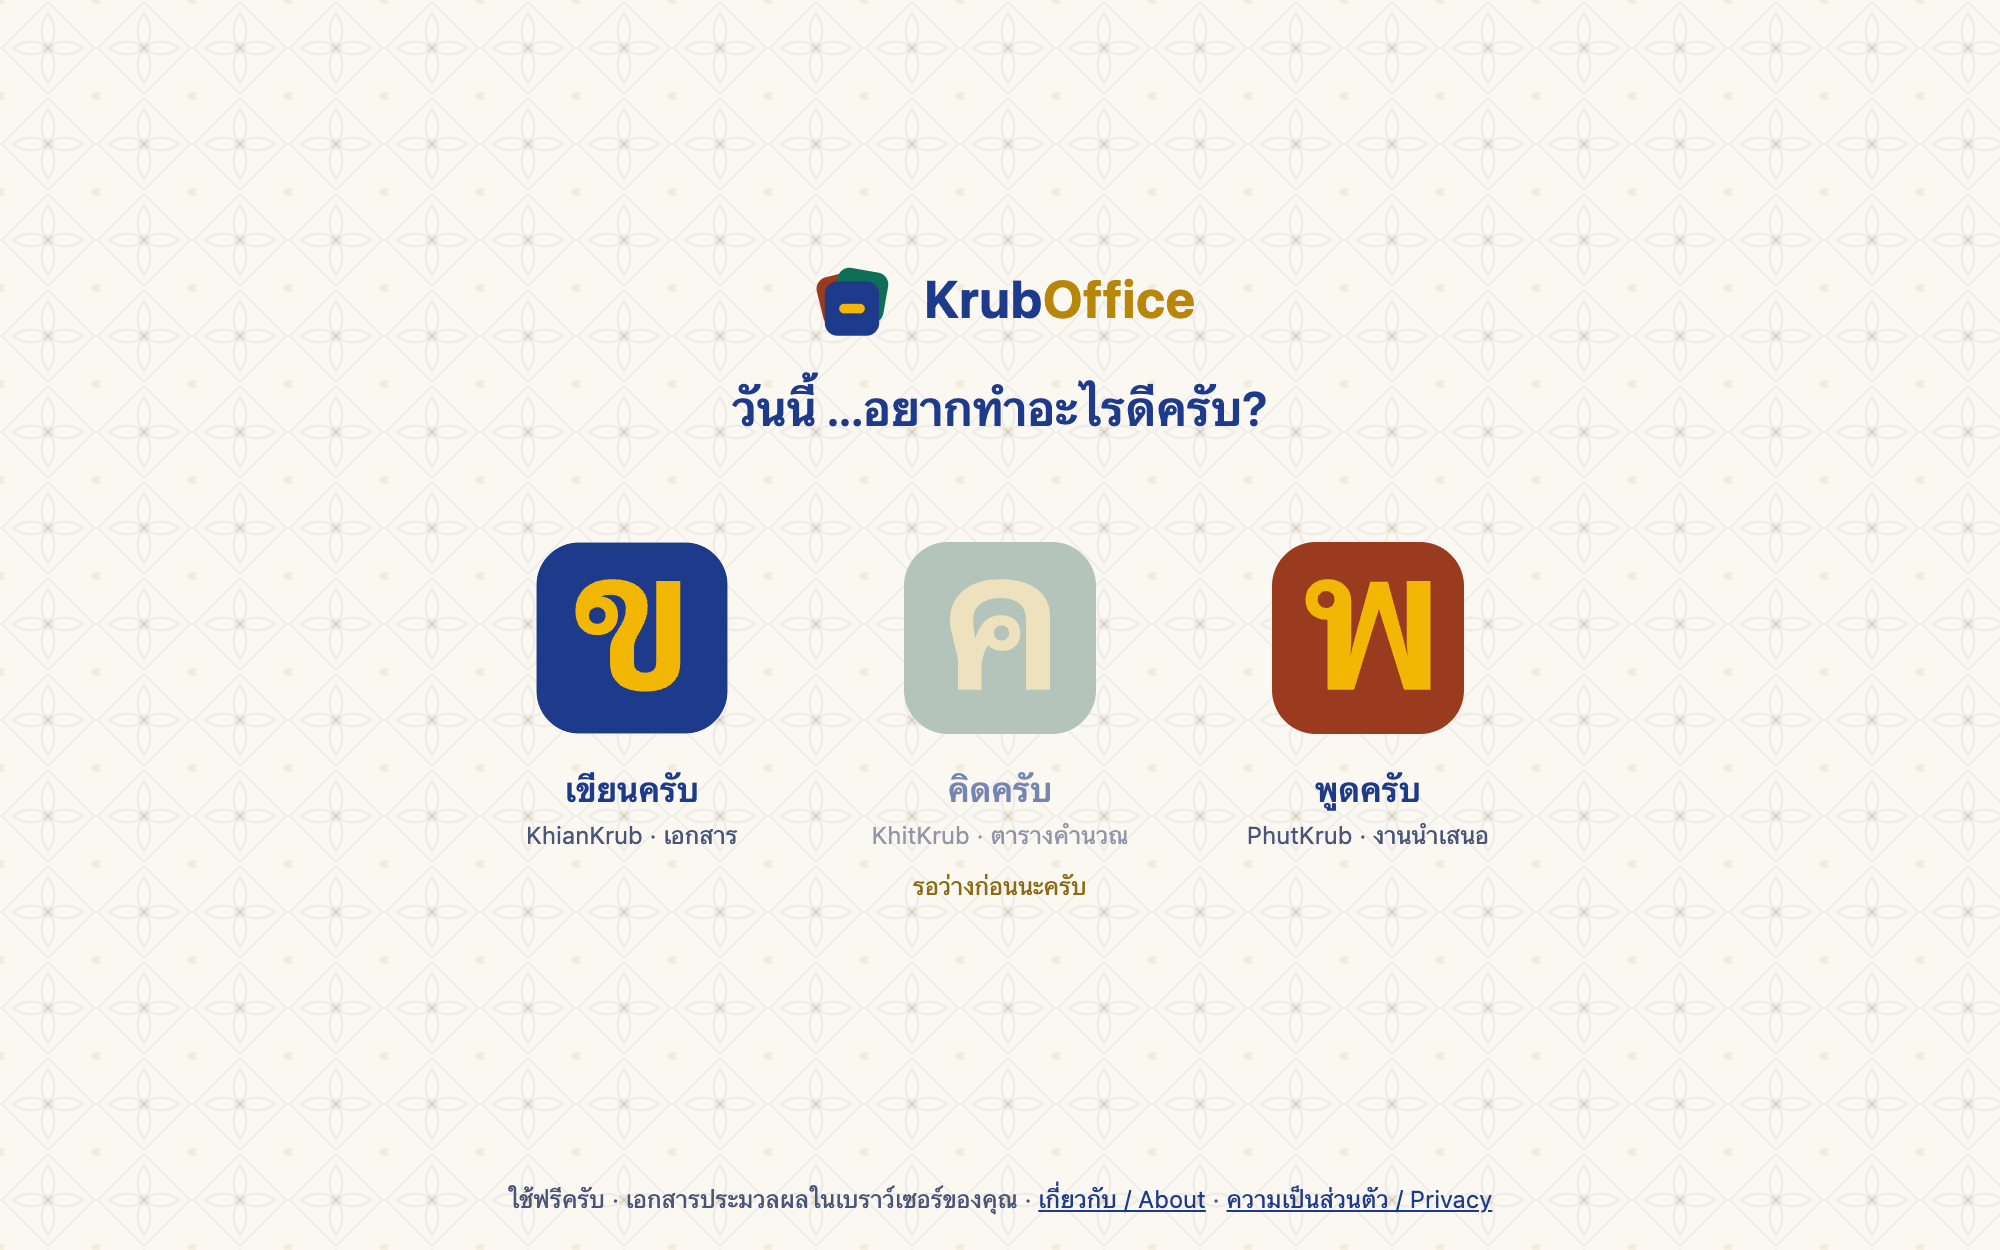
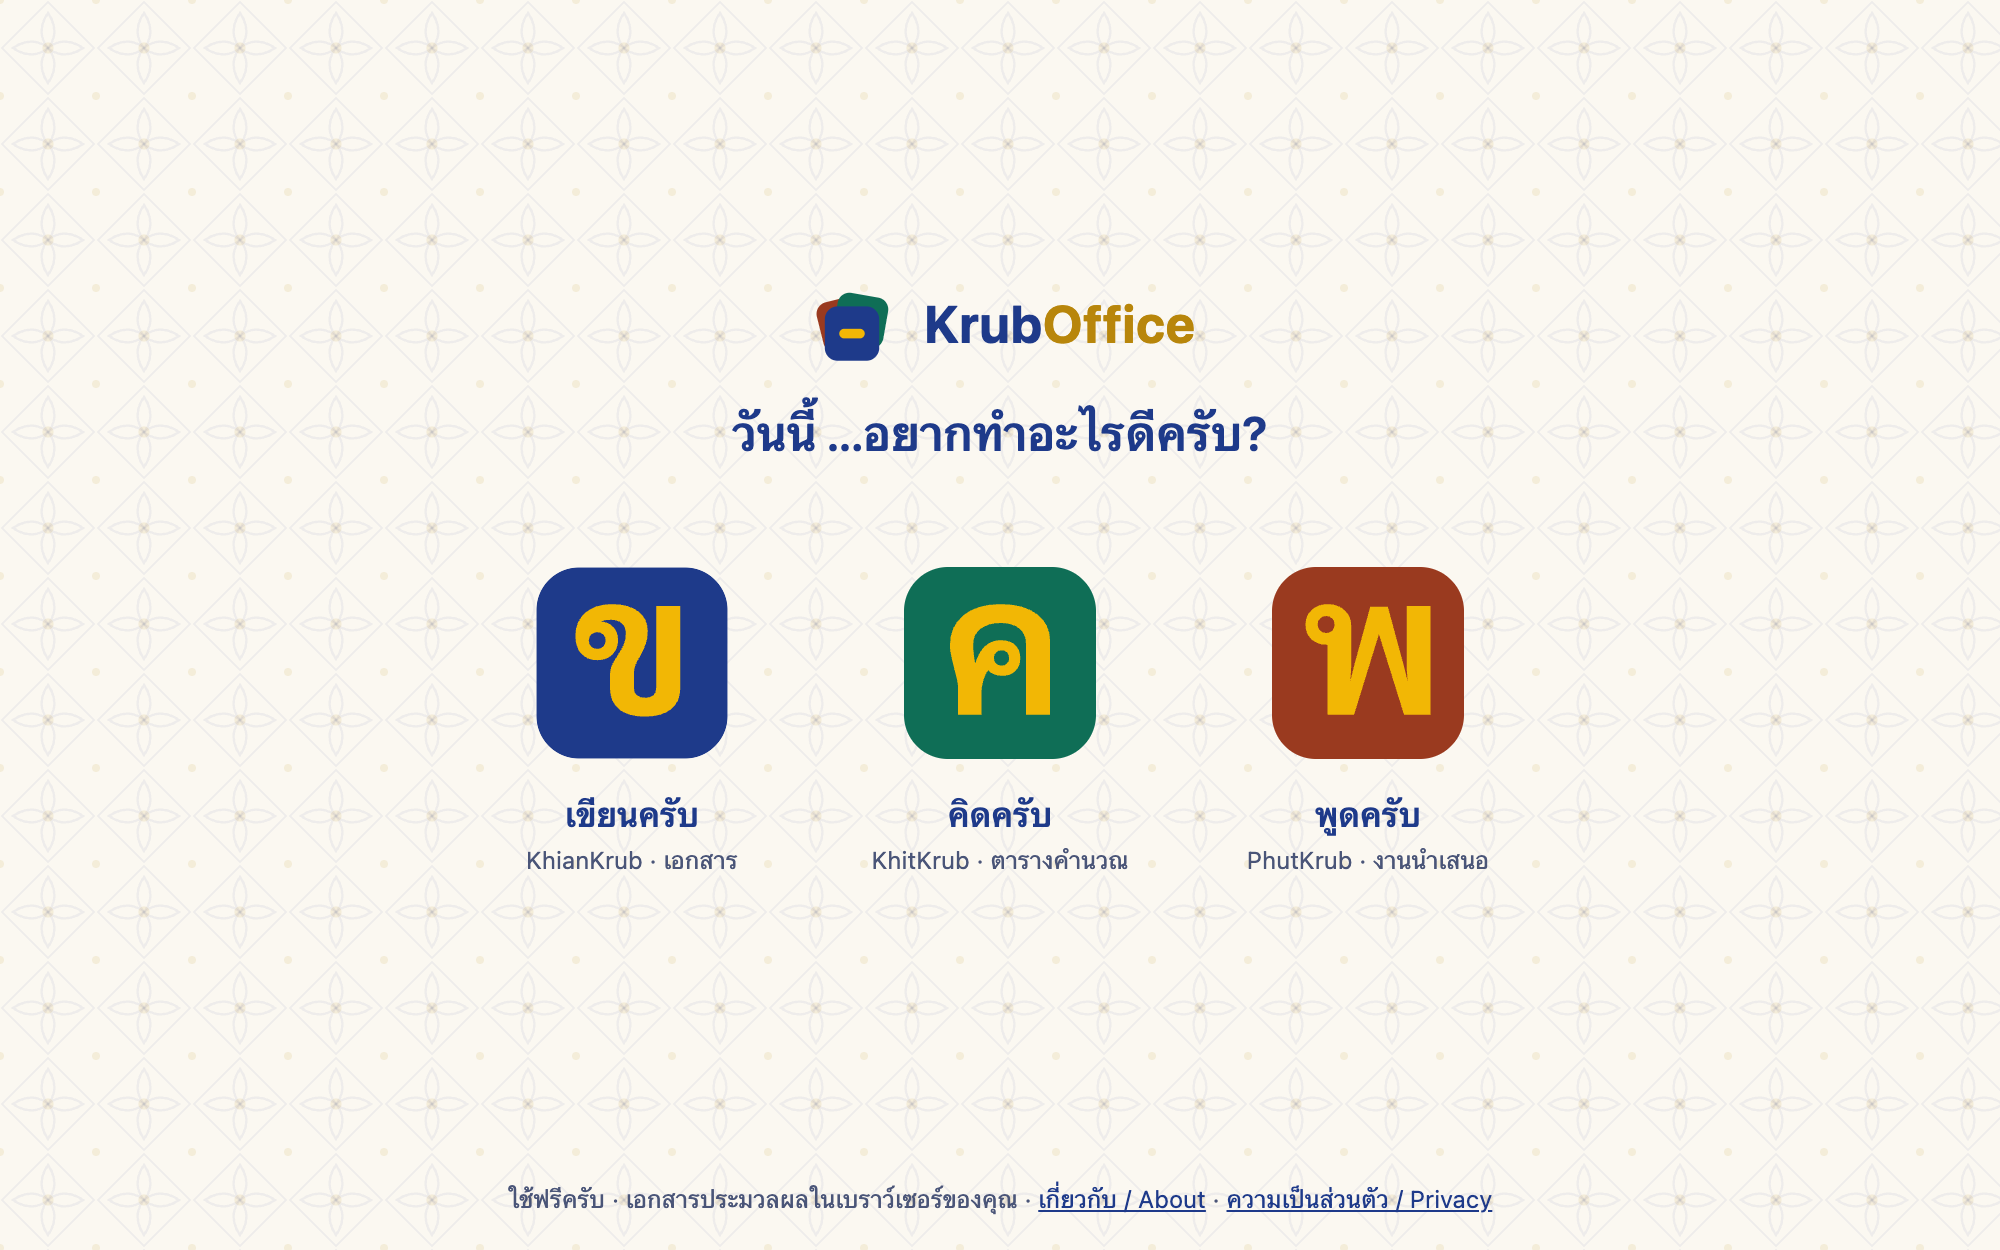
Publish KrubOffice launcher (8fb3d26c)

diff --git a/README.md b/README.md
@@ -8,10 +8,10 @@
 
 **Free Thai office apps in the browser. Nothing to install, no account to make.**
 
-**[เปิด / Open kruboffice.app](https://kruboffice.app/)** · [เขียนครับ · KhianKrub](https://khiankrub.app/) · [พูดครับ · PhutKrub](https://phutkrub.app/)
+**[เปิด / Open kruboffice.app](https://kruboffice.app/)** · [เขียนครับ · KhianKrub](https://khiankrub.app/) · [พูดครับ · PhutKrub](https://phutkrub.app/) · [คิดครับ · KhitKrub](https://khitkrub.app/)
 
 <p align="center">
-  <img src="images/kruboffice-launcher.png" alt="The KrubOffice page: the three-tile logo, the greeting วันนี้ ...อยากทำอะไรดีครับ?, and the app icons: เขียนครับ (a gold ข on navy), the faded คิดครับ marked รอว่างก่อนนะครับ, and พูดครับ (a gold พ on coral)" width="100%">
+  <img src="images/kruboffice-launcher.png" alt="The KrubOffice page: the three-tile logo, the greeting วันนี้ ...อยากทำอะไรดีครับ?, and the app icons: เขียนครับ (a gold ข on navy), คิดครับ (a gold ค on teal) and พูดครับ (a gold พ on coral)" width="100%">
 </p>
 
 ## โปรแกรมในชุด / The apps
@@ -20,7 +20,7 @@
 |---|---|---|---|
 | **เขียนครับ · KhianKrub** | พิมพ์เอกสาร เปิดและบันทึกไฟล์ Word (`.docx`) / Word processor, opens and saves `.docx` | [WordCraft](https://github.com/storytold/wordcraft) | ใช้ได้แล้ว / Available: **[khiankrub.app](https://khiankrub.app/)** |
 | **พูดครับ · PhutKrub** | ทำงานนำเสนอ เปิดและบันทึกไฟล์ PowerPoint (`.pptx`) / Presentations, opens and saves `.pptx` | [DeckCraft](https://github.com/storytold/deckcraft) | ใช้ได้แล้ว / Available: **[phutkrub.app](https://phutkrub.app/)** |
-| **คิดครับ · KhitKrub** | ตารางคำนวณ / Spreadsheets | [GridCraft](https://github.com/storytold/gridcraft) (planned) | รอว่างก่อนนะครับ / Coming later |
+| **คิดครับ · KhitKrub** | ตารางคำนวณ เปิดและบันทึกไฟล์ Excel (`.xlsx`) / Spreadsheets, opens and saves `.xlsx` | [GridCraft](https://github.com/storytold/gridcraft) | ใช้ได้แล้ว / Available: **[khitkrub.app](https://khitkrub.app/)** |
 
 ใช้ได้ฟรีบนคอมพิวเตอร์และ iPad ยังไม่รองรับโทรศัพท์มือถือ / Free on computers and iPads; phones aren't supported yet.
 
@@ -29,20 +29,20 @@
 **ภาษาไทย** KrubOffice ไม่ได้เริ่มจากศูนย์ครับ ทุกโปรแกรมพัฒนาต่อยอดจากโปรแกรมโอเพนซอร์สของโครงการ **[ArtCraft](https://github.com/storytold)** ซึ่งเป็นชุด "Crafting Apps" ที่ทีม ArtCraft เขียนขึ้นใหม่ทั้งหมดด้วยภาษา Rust (แบบ clean-room คือเขียนจากการใช้งาน ไม่คัดลอกโค้ดหรือหน้าตาของโปรแกรมเชิงพาณิชย์) และเผยแพร่ภายใต้สัญญาอนุญาต MIT หรือ Apache-2.0 เราเก็บสัญญาอนุญาตและเครดิตของเขาไว้ครบ แล้วปรับให้เหมาะกับผู้ใช้ภาษาไทย:
 
 - **เมนูและข้อความเป็นภาษาไทย** เปิดครั้งแรกเป็นภาษาไทย สลับเป็นภาษาอังกฤษได้ในคลิกเดียว
-- **ฟอนต์ไทย** เมนูใช้ Sarabun งานใหม่ใช้ TH Sarabun New เป็นค่าเริ่มต้น
-- **หน้าตาแบบ KrubOffice** แถบด้านบนสีประจำแอป (กรมท่าของเขียนครับ ส้มอิฐของพูดครับ) ไฮไลต์สีทอง
+- **ฟอนต์ไทย** เมนูใช้ Sarabun งานใหม่ในเขียนครับและพูดครับใช้ TH Sarabun New เป็นค่าเริ่มต้น ส่วนคิดครับใช้ TH Sarabun New วาดตัวอักษรไทยในเซลล์
+- **หน้าตาแบบ KrubOffice** แถบด้านบนสีประจำแอป (กรมท่าของเขียนครับ ส้มอิฐของพูดครับ เขียวอมน้ำเงินของคิดครับ) ไฮไลต์สีทอง
 - **หน้าเริ่มต้นและฉบับร่างในเบราว์เซอร์** เลือกแม่แบบ หรือเขียนต่อจากฉบับร่างที่ค้างไว้
 - เขียนครับยังมี **การตัดคำไทย** **การจัดข้อความแบบกระจายไทย** รายการเลขไทย และฟอนต์ SIPA / TLWG
 
 **English** KrubOffice did not start from scratch. Each app is a Thai adaptation of an open-source app from **[ArtCraft](https://github.com/storytold)**'s "Crafting Apps", which the ArtCraft team wrote from scratch in Rust (clean-room: built from how such programs are used, not from any commercial program's code or look) and released under MIT or Apache-2.0. We keep their licences and credits and adapt the apps for Thai users:
 
 - **Thai menus and text**: the apps open in Thai on a first visit and switch to English in one click.
-- **Thai fonts**: Sarabun for menus, TH Sarabun New as the default for new work.
-- **A KrubOffice look**: a top band in each app's own colour (navy for KhianKrub, coral for PhutKrub) with gold highlights.
+- **Thai fonts**: Sarabun for menus; new work in KhianKrub and PhutKrub defaults to TH Sarabun New, while KhitKrub uses TH Sarabun New to draw Thai letters in cells.
+- **A KrubOffice look**: a top band in each app's own colour (navy for KhianKrub, coral for PhutKrub, teal for KhitKrub) with gold highlights.
 - **A start screen with browser drafts**: pick a template, or carry on with a draft kept in the browser.
 - KhianKrub also has **Thai word breaking**, **Thai Distribution** justification, Thai list numbering and the SIPA / TLWG fonts.
 
-เขียนครับและพูดครับไม่ใช่ผลิตภัณฑ์ของ ArtCraft และไม่เกี่ยวข้องกับ Microsoft / KhianKrub and PhutKrub are not ArtCraft products and are not affiliated with Microsoft. The Thai adaptations are by **Chanon Sarasuk**.
+เขียนครับ พูดครับ และคิดครับไม่ใช่ผลิตภัณฑ์ของ ArtCraft และไม่เกี่ยวข้องกับ Microsoft / KhianKrub, PhutKrub and KhitKrub are not ArtCraft products and are not affiliated with Microsoft. The Thai adaptations are by **Chanon Sarasuk**.
 
 ## สิ่งที่ใช้ร่วมกัน / What the apps share
 
@@ -98,16 +98,38 @@
 
 ### คิดครับ · KhitKrub
 
-ตารางคำนวณ รอว่างก่อนนะครับ / Spreadsheets: coming later.
+<table>
+<tr>
+<td width="50%" valign="top"><img src="images/khitkrub-start.png" alt="The KhitKrub start screen in Thai: a top bar with เปิดไฟล์, ตัวเลือก and the app switcher, the greeting สวัสดีครับ วันนี้จะทำงานอะไรดี, the new-workbook tiles and drafts kept in this browser" width="100%"><p align="center"><sub><b>หน้าเริ่มต้น / Start screen</b></sub></p></td>
+<td width="50%" valign="top"><img src="images/khitkrub-editor.png" alt="KhitKrub with Thai menus: the teal band, the white active tab joined to the ribbon, and the Thai sample workbook ยอดขายร้านกาแฟ, a coffee shop's sales in baht, with a data bar, a colour scale and a chart" width="100%"><p align="center"><sub><b>ตารางคำนวณ / A spreadsheet</b></sub></p></td>
+</tr>
+</table>
+
+- สูตรและฟังก์ชันกว่า 500 ตัว แผนภูมิ ตารางสรุปข้อมูล การจัดรูปแบบตามเงื่อนไข / 500+ functions, charts, pivot tables and conditional formatting
+- เปิดและบันทึกไฟล์ Excel (`.xlsx`) และ CSV / Open and save `.xlsx` and CSV
+- ตัวอักษรไทยในเซลล์ใช้ TH Sarabun New ตัวเลขและอังกฤษใช้ฟอนต์เริ่มต้น / Thai letters in cells use TH Sarabun New; Latin text and numbers keep the default font
+- รุ่นแรก: ชื่อฟังก์ชันในสูตรยังเป็นภาษาอังกฤษ ยังไม่มีเลขไทย วันที่ พ.ศ. หรือการอ่านจำนวนเงินเป็นตัวอักษร / First release: function names stay English; no Thai digits, Buddhist-era dates or baht-in-words yet
+
+<table>
+<tr>
+<td width="60%" valign="top"><img src="images/khitkrub-dark.png" alt="KhitKrub in the dark theme: a deep teal band, dark panes and the Thai sample workbook" width="100%"><p align="center"><sub><b>ธีมมืด / Dark theme.</b> ตารางยังขาวเหมือนตอนพิมพ์ / The sheet stays white, as it will print.</sub></p></td>
+<td width="40%" valign="top"><img src="images/khitkrub-loading.png" alt="The KhitKrub loading screen: a gold ค on teal with the name คิดครับ and a gold loading bar" width="100%"><p align="center"><sub><b>หน้ารอเปิดโปรแกรม / Loading screen.</b> ครั้งแรกอาจใช้เวลาสักครู่ / The first visit can take a moment.</sub></p></td>
+</tr>
+</table>
 
 ## มีอะไรใหม่ / What's new
+
+**1 พฤศจิกายน 2569 / 1 November 2026**
+
+- **คิดครับ (KhitKrub) เปิดให้ใช้แล้ว** ที่ [khitkrub.app](https://khitkrub.app/) เมนูไทย ฟอนต์ไทย แถบด้านบนสีเขียวอมน้ำเงิน ไฮไลต์สีทอง หน้าเริ่มต้นพร้อมฉบับร่างในเบราว์เซอร์ / **KhitKrub is available** at [khitkrub.app](https://khitkrub.app/): Thai menus and fonts, a teal top band with gold highlights, and a start screen with browser drafts.
+- **หน้า KrubOffice** มีไอคอนคิดครับพร้อมใช้ และปุ่มสลับแอปในทุกโปรแกรมพาไปยังคิดครับได้ / **The KrubOffice page** now has KhitKrub's icon ready to open, and every app's switcher leads to it.
 
 **31 ตุลาคม 2569 / 31 October 2026**
 
 - **พูดครับ (PhutKrub) เปิดให้ใช้แล้ว** ที่ [phutkrub.app](https://phutkrub.app/) เมนูไทย ฟอนต์ไทย แถบด้านบนสีส้มอิฐ ไฮไลต์สีทอง หน้าเริ่มต้นพร้อมฉบับร่างในเบราว์เซอร์ / **PhutKrub is available** at [phutkrub.app](https://phutkrub.app/): Thai menus and fonts, a coral top band with gold highlights, and a start screen with browser drafts.
 - **หน้า KrubOffice** มีไอคอนพูดครับพร้อมใช้ และปุ่มสลับแอปในพูดครับพาไปยังเขียนครับได้ / **The KrubOffice page** now has PhutKrub's icon ready to open, and PhutKrub's app switcher leads to KhianKrub.
 
-ประวัติรุ่นของแต่ละโปรแกรมอยู่ที่หน้า Releases ของ [khiankrub-web](https://github.com/chanonss/khiankrub-web/releases) และ [phutkrub-web](https://github.com/chanonss/phutkrub-web/releases) / Each app's release history is on its Releases page.
+ประวัติรุ่นของแต่ละโปรแกรมอยู่ที่หน้า Releases ของ [khiankrub-web](https://github.com/chanonss/khiankrub-web/releases), [phutkrub-web](https://github.com/chanonss/phutkrub-web/releases) และ [khitkrub-web](https://github.com/chanonss/khitkrub-web/releases) / Each app's release history is on its Releases page.
 
 ## เริ่มใช้งาน / Getting started
 

diff --git a/ATTRIBUTION.md b/ATTRIBUTION.md
@@ -20,6 +20,19 @@ Generated-in-code art is original and has no file to list: the UI icon set (`cra
 | `docs/images/khiankrub-web-editor-th.png` | Chanon Sarasuk with Codex | Actual KhianKrub web editor captured in headless Chrome, Thai menus and original Thai–English example text | MIT OR Apache-2.0 | Original; no Microsoft UI or assets |
 | `docs/images/khiankrub-web-editor-en.png` | Chanon Sarasuk | Actual KhianKrub web editor captured in headless Chrome, English menus and the original Thai showcase report | MIT OR Apache-2.0 | Original; no Microsoft UI or assets |
 | `docs/images/khiankrub-web-loading.png` | Chanon Sarasuk with Codex | Actual KhianKrub navy-and-gold loading screen captured in headless Chrome | MIT OR Apache-2.0 | Original HTML/CSS; system-rendered text |
+| `packaging/web/kruboffice/images/kruboffice-launcher.png` | Chanon Sarasuk with Claude | Actual KrubOffice launcher page (kruboffice.app) captured in headless Chrome: three-tile logo, Thai greeting, the three live app tiles (letters traced from Sarabun Bold, SIL OFL 1.1) | MIT OR Apache-2.0 | Original; no Microsoft UI or assets |
+| `packaging/web/kruboffice/images/krubOffice-192.png` | Chanon Sarasuk | KrubOffice logo (three overlapping tiles) rendered from the drawn SVG, copied from packaging/web/public/icons | MIT OR Apache-2.0 | Original artwork; no Microsoft UI or assets |
+| `packaging/web/kruboffice/images/khiankrub-hero.png` | Chanon Sarasuk | Copy of docs/images/khiankrub-web-hero.png: the KhianKrub web editor with Thai menus and the original Thai showcase report | MIT OR Apache-2.0 | Original; no Microsoft UI or assets |
+| `packaging/web/kruboffice/images/khiankrub-bands.png` | Chanon Sarasuk | Copy of docs/images/khiankrub-web-bands.png: KhianKrub's title bar and tabs in six band colours with Thai motifs drawn in code | MIT OR Apache-2.0 | Original; no Microsoft UI or assets |
+| `packaging/web/kruboffice/images/khiankrub-start.png` | Chanon Sarasuk | Copy of docs/images/khiankrub-web-start.png: the KhianKrub start screen with the built-in template thumbnails | MIT OR Apache-2.0 | Original; no Microsoft UI or assets |
+| `packaging/web/kruboffice/images/phutkrub-start.png` | Chanon Sarasuk with Claude | Actual PhutKrub web app start screen in Thai, captured in headless Chrome; sample content: DeckCraft's original sample deck | MIT OR Apache-2.0 | Original; no Microsoft UI or assets |
+| `packaging/web/kruboffice/images/phutkrub-editor.png` | Chanon Sarasuk with Claude | Actual PhutKrub web app editor with Thai menus and the built-in sample, captured in headless Chrome; sample content: DeckCraft's original sample deck | MIT OR Apache-2.0 | Original; no Microsoft UI or assets |
+| `packaging/web/kruboffice/images/phutkrub-dark.png` | Chanon Sarasuk with Claude | Actual PhutKrub web app editor in the dark theme, captured in headless Chrome; sample content: DeckCraft's original sample deck | MIT OR Apache-2.0 | Original; no Microsoft UI or assets |
+| `packaging/web/kruboffice/images/phutkrub-loading.png` | Chanon Sarasuk with Claude | Actual PhutKrub web app loading screen, captured in headless Chrome; sample content: DeckCraft's original sample deck | MIT OR Apache-2.0 | Original; no Microsoft UI or assets |
+| `packaging/web/kruboffice/images/khitkrub-start.png` | Chanon Sarasuk with Claude | Actual KhitKrub web app start screen in Thai, captured in headless Chrome; sample content: GridCraft-fork sample workbooks written for this app (original Thai coffee-shop data) | MIT OR Apache-2.0 | Original; no Microsoft UI or assets |
+| `packaging/web/kruboffice/images/khitkrub-editor.png` | Chanon Sarasuk with Claude | Actual KhitKrub web app editor with Thai menus and the built-in sample, captured in headless Chrome; sample content: GridCraft-fork sample workbooks written for this app (original Thai coffee-shop data) | MIT OR Apache-2.0 | Original; no Microsoft UI or assets |
+| `packaging/web/kruboffice/images/khitkrub-dark.png` | Chanon Sarasuk with Claude | Actual KhitKrub web app editor in the dark theme, captured in headless Chrome; sample content: GridCraft-fork sample workbooks written for this app (original Thai coffee-shop data) | MIT OR Apache-2.0 | Original; no Microsoft UI or assets |
+| `packaging/web/kruboffice/images/khitkrub-loading.png` | Chanon Sarasuk with Claude | Actual KhitKrub web app loading screen, captured in headless Chrome; sample content: GridCraft-fork sample workbooks written for this app (original Thai coffee-shop data) | MIT OR Apache-2.0 | Original; no Microsoft UI or assets |
 | `assets/hyphenation/en-us.pat` | DesignCraft contributors (generated) | trained from the Moby list by DesignCraft's patgen | Public Domain (CC0-1.0) | Our own Liang hyphenation patterns (no TeX patterns) |
[1 lines of base64/hex data omitted]
 | `assets/spelling/en-extra.txt` | WordCraft contributors | original word list written for this repository (common modern words the Moby list lacks); no other dictionary copied | MIT OR Apache-2.0 | ~240 lowercase English base forms supplementing spelling (#520), including British spellings (#40) |
